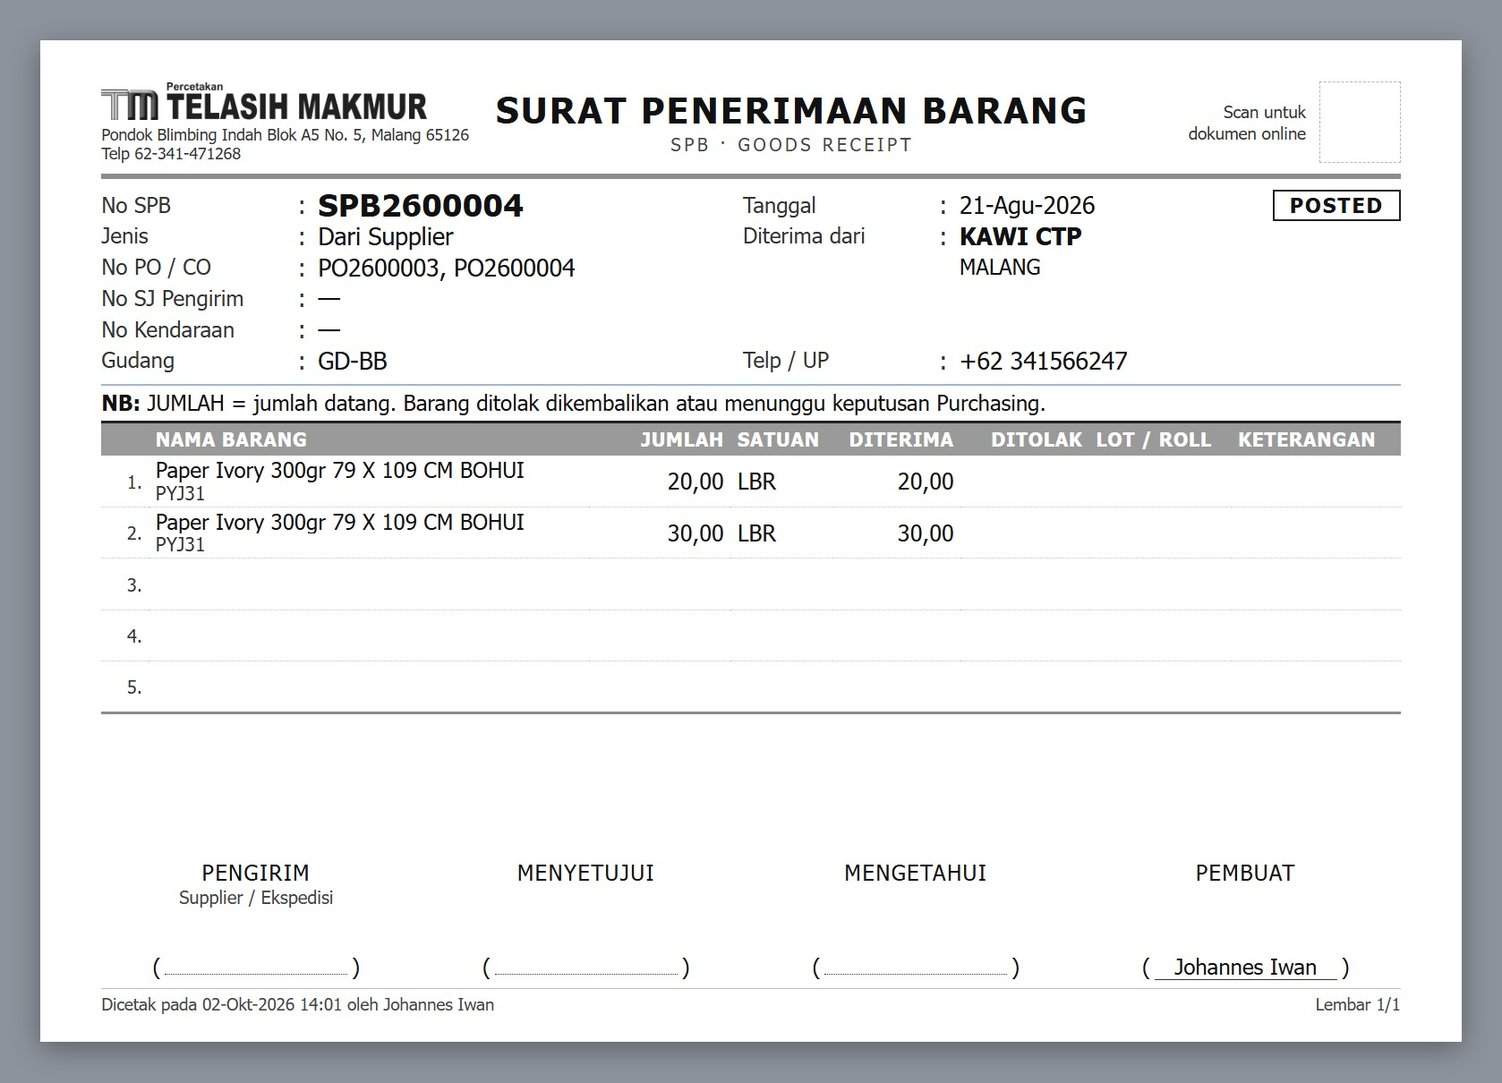
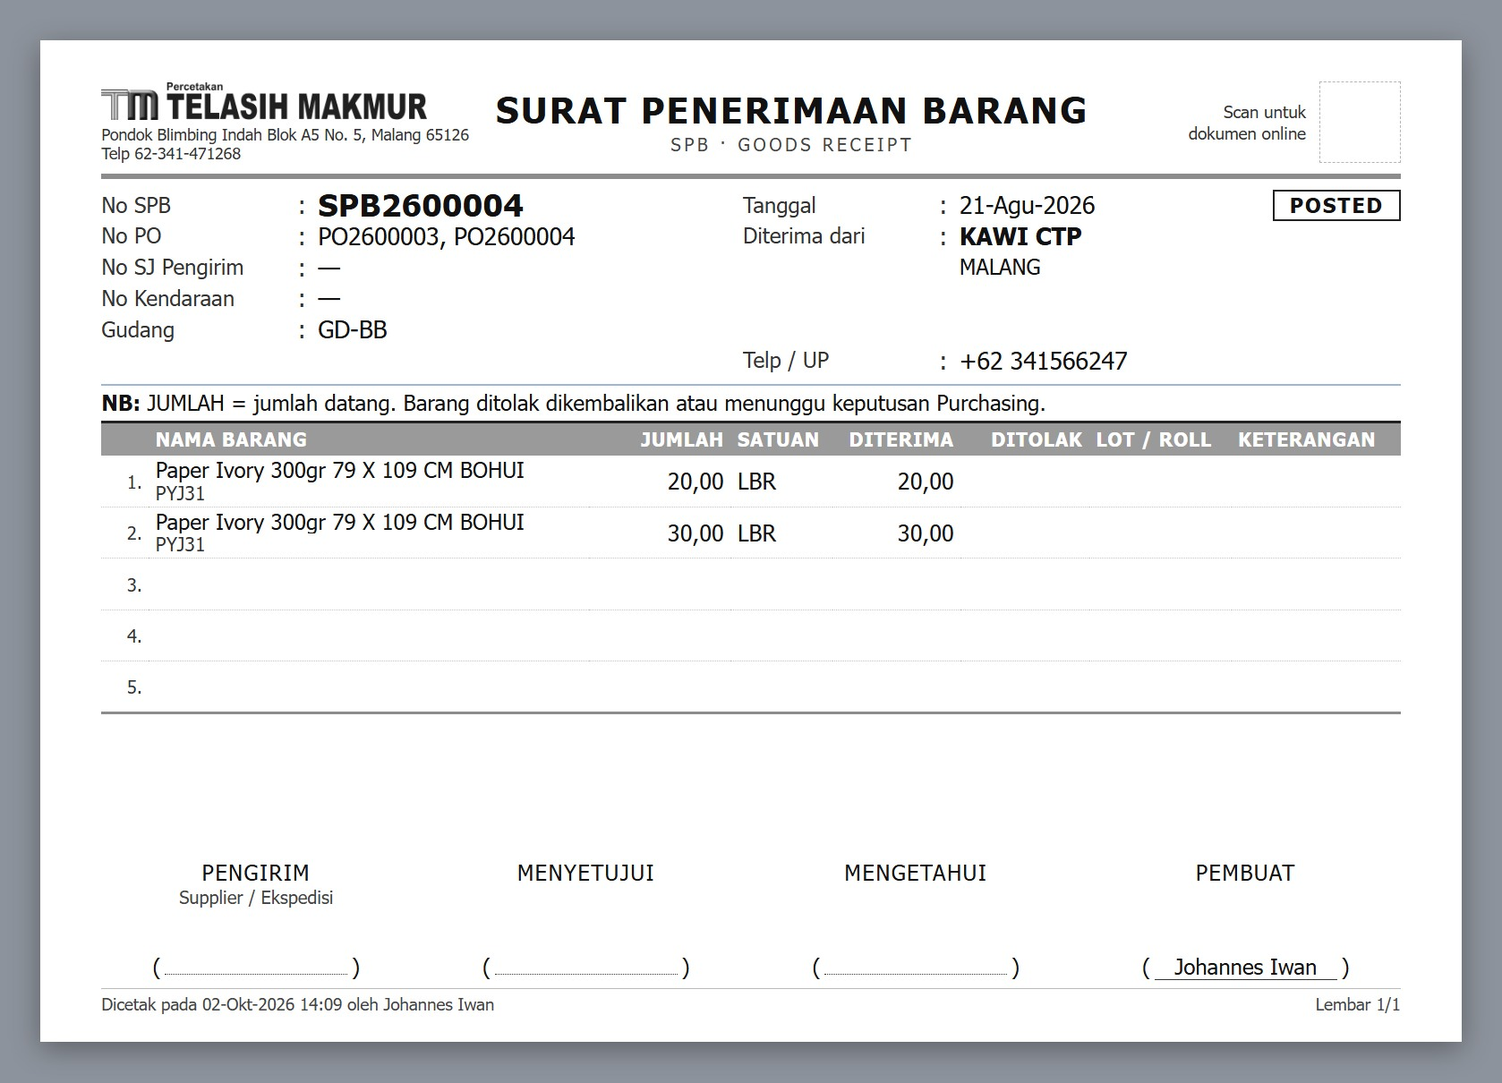
Goods receipts: three titles and three number series (SPB supplier, PBC customer material, PBS subcon); Kind field off the SPB print
SPB numbers stay consecutive for accounting to check supplier invoices against them.

Changed region(s): [[0.2169, 0.214, 0.4029, 0.3364], [0.062, 0.214, 0.1549, 0.3364]]

diff --git a/docs/mockups/print_doc/documents.js b/docs/mockups/print_doc/documents.js
@@ -296,8 +296,9 @@ PrintDoc.register(class GoodsReceipt extends PrintDoc {
     static title = 'SURAT PENERIMAAN BARANG';   // nama dokumen = SPB, Surat Penerimaan Barang (user 2026-10-02)
     static subtitle = 'SPB &middot; Goods Receipt';
     static numberLabel = 'No SPB';
+    // Tanpa field "Jenis" (user 2026-10-02): SPB hanya untuk penerimaan dari supplier, nomornya urut untuk pemeriksaan
+    // tagihan supplier oleh accounting. Bahan dari customer dan barang dari subkon = judul dan seri nomor sendiri (di bawah).
     static refs = [
-        {key: 'receipt_type', label: 'Jenis'},
         {key: 'po_no', label: 'No PO'},
         {key: 'supplier_dn', label: 'No SJ Pengirim'},
         {key: 'vehicle', label: 'No Kendaraan'},
@@ -309,6 +310,39 @@ PrintDoc.register(class GoodsReceipt extends PrintDoc {
     static extra = [{key: 'accepted', label: 'DITERIMA', width: 19, type: 'money'}, {key: 'rejected', label: 'DITOLAK', width: 19, type: 'money'}, {key: 'lot_no', label: 'LOT / ROLL', width: 21},
         {key: 'remark', label: 'KETERANGAN', width: 25}];
     static receivers = [['Pengirim', 'Supplier / Ekspedisi']];
+});
+
+// Bahan baku milik customer untuk satu Customer Order: judul dan seri nomor sendiri (PBC), bukan SPB.
+PrintDoc.register(class CustomerMaterialReceipt extends PrintDoc.registry.GoodsReceipt {
+    static approved = null;
+    static title = 'PENERIMAAN BAHAN BAKU CUSTOMER';
+    static subtitle = 'PBC &middot; Customer Material Receipt';
+    static numberLabel = 'No Penerimaan';
+    static refs = [
+        {key: 'co_no', label: 'No CO'},
+        {key: 'supplier_dn', label: 'No SJ Pengirim'},
+        {key: 'vehicle', label: 'No Kendaraan'},
+        {key: 'warehouse', label: 'Gudang'},
+    ];
+    static nb = '<b>NB:</b>&nbsp;Bahan milik customer, hanya untuk Customer Order di atas. Bukan stok perusahaan.';
+    static receivers = [['Pengirim', 'Customer / Ekspedisi']];
+});
+
+// Barang kembali dari subkon: judul dan seri nomor sendiri (PBS), bukan SPB.
+PrintDoc.register(class SubconGoodsReceipt extends PrintDoc.registry.GoodsReceipt {
+    static approved = null;
+    static title = 'PENERIMAAN BARANG DARI SUBKON';
+    static subtitle = 'PBS &middot; Goods Receipt from Subcon';
+    static numberLabel = 'No Penerimaan';
+    static refs = [
+        {key: 'po_no', label: 'No PO'},
+        {key: 'our_dn', label: 'No SJ Subkon'},
+        {key: 'supplier_dn', label: 'No SJ Pengirim'},
+        {key: 'vehicle', label: 'No Kendaraan'},
+        {key: 'warehouse', label: 'Gudang'},
+    ];
+    static nb = '<b>NB:</b>&nbsp;JUMLAH = jumlah yang kembali dari subkon. Kekurangan diselesaikan dengan subkon.';
+    static receivers = [['Pengirim', 'Subkon / Ekspedisi']];
 });
 
 // Layar v2: material-booking. Kebutuhan bahan satu Customer Order.

diff --git a/docs/mockups/print_doc/samples.js b/docs/mockups/print_doc/samples.js
@@ -197,10 +197,23 @@ Object.assign(SAMPLES, {
         more: [],
     },
     GoodsReceipt: {
-        data: {...PRINTED, number: 'SPB2600031', date: '2026-10-08', status: 'POSTED', receipt_type: 'Dari Supplier', po_no: 'PO26000001976', supplier_dn: 'SJ-0925/MJU', vehicle: 'L 9123 UX', warehouse: 'Gudang Bahan Baku',
+        data: {...PRINTED, number: 'SPB2600031', date: '2026-10-08', status: 'POSTED', po_no: 'PO26000001976', supplier_dn: 'SJ-0925/MJU', vehicle: 'L 9123 UX', warehouse: 'Gudang Bahan Baku',
             createdBy: 'Yuna', party: {name: 'PT MAKMUR JAYA USAHA', lines: []},
             notes: [['Catatan', '1 rim sobek di sisi luar, ditolak dan dibawa kembali oleh pengirim.']],
             rows: [{name: 'DC 310 IKA DA GR 79 x 109 CM', qty: 23, unit: 'RIM', accepted: 22, rejected: 1, lot_no: 'R8-2610', remark: '1 rim sobek'}]},
+        more: [],
+    },
+    CustomerMaterialReceipt: {
+        data: {...PRINTED, number: 'PBC2600003', date: '2026-10-06', status: 'POSTED', co_no: 'CO2600029', supplier_dn: 'SJ-RUDI-014', vehicle: 'N 8841 AB', warehouse: 'Gudang Bahan Baku',
+            contact: 'PAK RUDI · +62 812-3567-289', createdBy: 'Yuna', party: {name: 'PAK RUDI LAWANG', lines: ['Jl. Argopuro no. 24', 'Lawang']},
+            rows: [{name: 'Duplex 310 gr 65 x 100 cm (bahan customer)', sub: 'Folding Box Kosmetik Duplex', qty: 70, unit: 'LBR', accepted: 70, lot_no: 'CUST-1006'}]},
+        more: [],
+    },
+    SubconGoodsReceipt: {
+        data: {...PRINTED, number: 'PBS2600002', date: '2026-10-07', status: 'POSTED', po_no: 'PO2600008', our_dn: 'DO/26/00041', supplier_dn: 'SJ-CG-0331', vehicle: 'N 9027 CD', warehouse: 'Gudang Setengah Jadi',
+            createdBy: 'Yuna', party: {name: 'CENTRAL GRAFIK', lines: ['Malang']},
+            notes: [['Catatan', '10 lembar kurang, disusulkan subkon paling lambat 09-Okt-2026.']],
+            rows: [{name: 'Laminasi Doff - printed body sheets', sub: 'CO2600029', qty: 490, unit: 'LBR', accepted: 490, remark: 'Kurang 10 lbr'}]},
         more: [],
     },
     MaterialBooking: {

diff --git a/docs/mockups/print_doc/printdoc.css b/docs/mockups/print_doc/printdoc.css
@@ -108,4 +108,4 @@ table.items{width:100%;border-collapse:collapse;border-top:.5mm solid #222;borde
 .legend p i{position:absolute;left:0;top:.4mm;width:4.2mm;height:4.2mm;border-radius:50%;background:#e11d2e;color:#fff;font:700 6.8pt Tahoma,sans-serif;
     display:flex;align-items:center;justify-content:center}
 /* Judul panjang: huruf lebih kecil supaya muat di samping kop (user 2026-10-02) */
-.doc-SupplierInvoiceReceipt .kop h1{font-size:12pt;letter-spacing:.04em}
+.doc-SupplierInvoiceReceipt .kop h1,.doc-CustomerMaterialReceipt .kop h1,.doc-SubconGoodsReceipt .kop h1{font-size:12pt;letter-spacing:.04em}

diff --git a/app/Support/V2/Print/GoodsReceiptPrint.php b/app/Support/V2/Print/GoodsReceiptPrint.php
@@ -6,11 +6,23 @@ use App\Models\Pur\PvReceipt;
 use Devlib\PrintDoc\Document;
 use Illuminate\Support\Facades\DB;
 
-// Surat Penerimaan Barang / SPB (format A, user 2026-10-02; judul "Surat Penerimaan Barang" atas permintaan user): dokumen gudang, TANPA harga, untuk ketiga jenis penerimaan (dari supplier, kembali
-// dari subkon, bahan dari customer). Qty = jumlah datang; Diterima / Ditolak = hasil QC. Sumber: tm2pur.pv_receipt + pv_line.
+// Surat Penerimaan Barang / SPB (format A, user 2026-10-02): dokumen gudang, TANPA harga. Qty = jumlah datang; Diterima /
+// Ditolak = hasil QC. Sumber: tm2pur.pv_receipt + pv_line.
+// Tiga jenis penerimaan = tiga judul dan tiga seri nomor (user 2026-10-02): dari supplier = "Surat Penerimaan Barang" (SPB),
+// bahan dari customer = "Penerimaan Bahan Baku Customer" (PBC), kembali dari subkon = "Penerimaan Barang dari Subkon" (PBS).
+// Karena judulnya sudah berbeda, field "Jenis" tidak dicetak. SPB dipakai accounting untuk memeriksa tagihan supplier,
+// jadi nomornya harus urut tanpa diselingi dua jenis lainnya.
 final class GoodsReceiptPrint extends Document
 {
-    private const KINDS = ['PO' => 'From Supplier', 'SUBCON' => 'Return from Subcon', 'CUSTOMER' => 'Material from Customer'];
+    // jenis => [judul, sub-judul, label nomor, label rujukan, penyerah, NB]
+    private const KINDS = [
+        'PO' => ['Goods Receipt', 'SPB · Goods Receipt', 'SPB No.', 'PO No.', 'Supplier / Forwarder',
+            'QTY = quantity arrived. Rejected goods are returned or wait for a Purchasing decision.'],
+        'CUSTOMER' => ['Customer Material Receipt', 'PBC · Customer Material Receipt', 'Receiving No.', 'CO No.', 'Customer / Forwarder',
+            'Material owned by the customer, for the Customer Order above only. Not company stock.'],
+        'SUBCON' => ['Goods Receipt from Subcon', 'PBS · Goods Receipt from Subcon', 'Receiving No.', 'PO No.', 'Subcontractor / Forwarder',
+            'QTY = quantity returned by the subcontractor. A shortage is settled with the subcontractor.'],
+    ];
 
     public string $type = 'goods-receipt';
 
@@ -21,8 +33,7 @@ final class GoodsReceiptPrint extends Document
     public string $numberLabel = 'SPB No.';
 
     public array $refs = [
-        ['key' => 'receipt_type', 'label' => 'Kind'],
-        ['key' => 'ref_no', 'label' => 'PO / CO No.'],
+        ['key' => 'ref_no', 'label' => 'PO No.'],
         ['key' => 'sender_dn', 'label' => 'Sender Delivery Note No.'],
         ['key' => 'vehicle', 'label' => 'Vehicle No.'],
         ['key' => 'warehouse', 'label' => 'Warehouse'],
@@ -43,6 +54,17 @@ final class GoodsReceiptPrint extends Document
 
     public array $receivers = [['Sender', 'Supplier / Forwarder']];
 
+    // Label nomor dokumen menurut jenis penerimaan (dipakai juga cetakan QC Inspection).
+    public static function numberLabelFor(?string $receiptType): string
+    {
+        return (self::KINDS[$receiptType] ?? self::KINDS['PO'])[2];
+    }
+
+    public static function referenceLabelFor(?string $receiptType): string
+    {
+        return (self::KINDS[$receiptType] ?? self::KINDS['PO'])[3];
+    }
+
     public static function load(int $id, array $opt = []): static
     {
         $pv = PvReceipt::with(['lines' => fn ($q) => $q->orderBy('line_no')])->findOrFail($id);
@@ -52,9 +74,10 @@ final class GoodsReceiptPrint extends Document
         $ref = $customer ? DB::connection('tm2sdi')->table('co_order')->where('id_order', $pv->i_co_id)->value('co_no') : $pv->c_po_doc_list;
         $warehouse = $pv->i_warehouse_code ? implode(' · ', array_filter([$pv->i_warehouse_code, $mst->table('wh_warehouse')->where('warehouse_code', $pv->i_warehouse_code)->value('warehouse_name')])) : null;
 
-        return new self([
+        $doc = new self([
             'number' => $pv->doc_no ?: 'Draft #'.$pv->pv_id, 'date' => $pv->i_doc_date?->toDateString(), 'status' => $pv->status, 'printedBy' => $opt['printedBy'] ?? null,
-            'receipt_type' => self::t(self::KINDS[$pv->i_receipt_type] ?? $pv->i_receipt_type), 'ref_no' => $ref, 'sender_dn' => $pv->i_supplier_do_no,
+            'ref_no' => $ref, 'sender_dn' => $pv->i_supplier_do_no,
+            'our_dn' => $pv->i_do_id ? DB::connection('tm2sdi')->table('do_delivery')->where('id_delivery', $pv->i_do_id)->value('do_no') : null,
             'vehicle' => $pv->i_vehicle_no, 'warehouse' => $warehouse, 'email' => $party->email ?? null,
             'contact' => implode(' · ', array_filter([$party->contact_name ?? null, $party->phone ?? null])),
             'party' => ['name' => $party->customer_name ?? $party->supplier_name ?? '', 'lines' => PrintDocs::address($party->default_address ?? null)],
@@ -63,5 +86,15 @@ final class GoodsReceiptPrint extends Document
                 'accepted' => $l->c_qty_accepted !== null ? (float) $l->c_qty_accepted : null, 'rejected' => (float) $l->c_qty_rejected > 0 ? (float) $l->c_qty_rejected : null,
                 'lot_no' => $l->i_lot_no, 'remark' => $l->qc_note ?: $l->i_short_note])->all(),
         ]);
+        $kind = array_key_exists($pv->i_receipt_type, self::KINDS) ? $pv->i_receipt_type : 'PO';
+        [$doc->title, $doc->subtitle, $doc->numberLabel, $refLabel, $sender, $doc->nb] = self::KINDS[$kind];
+        $doc->titleCompact = $kind !== 'PO';
+        $doc->refs[0]['label'] = $refLabel;
+        $doc->receivers = [['Sender', $sender]];
+        if ($kind === 'SUBCON') {
+            array_splice($doc->refs, 1, 0, [['key' => 'our_dn', 'label' => 'Our Delivery Note No.']]);
+        }
+
+        return $doc;
     }
 }

diff --git a/tests/Feature/GoodsReceiptNumberSeriesTest.php b/tests/Feature/GoodsReceiptNumberSeriesTest.php
@@ -1,0 +1,37 @@
+<?php
+
+namespace Tests\Feature;
+
+use App\Models\Pur\PvReceipt;
+use App\Support\V2\Print\GoodsReceiptPrint;
+use Tests\TestCase;
+
+// Seri nomor penerimaan per jenis (user 2026-10-02): SPB hanya untuk penerimaan dari supplier supaya nomornya urut saat
+// accounting memeriksa tagihan supplier; bahan baku customer = PBC, barang dari subkon = PBS. Hanya membaca database.
+class GoodsReceiptNumberSeriesTest extends TestCase
+{
+    public function test_each_receipt_type_has_its_own_number_series(): void
+    {
+        $yy = now()->format('y');
+        $this->assertMatchesRegularExpression("/^SPB{$yy}\\d{5}$/", PvReceipt::nextDocNo());
+        $this->assertMatchesRegularExpression("/^SPB{$yy}\\d{5}$/", PvReceipt::nextDocNo('PO'));
+        $this->assertMatchesRegularExpression("/^PBC{$yy}\\d{5}$/", PvReceipt::nextDocNo('CUSTOMER'));
+        $this->assertMatchesRegularExpression("/^PBS{$yy}\\d{5}$/", PvReceipt::nextDocNo('SUBCON'));
+    }
+
+    public function test_the_supplier_series_is_not_advanced_by_the_other_types(): void
+    {
+        $last = PvReceipt::where('doc_no', 'like', 'SPB'.now()->format('y').'%')->orderByDesc('doc_no')->value('doc_no');
+        $expected = 'SPB'.now()->format('y').str_pad((string) (($last ? (int) substr($last, 5) : 0) + 1), 5, '0', STR_PAD_LEFT);
+        $this->assertSame($expected, PvReceipt::nextDocNo('PO'));
+        $this->assertNotSame(substr($expected, 0, 3), substr(PvReceipt::nextDocNo('CUSTOMER'), 0, 3));
+    }
+
+    public function test_the_print_names_the_number_by_receipt_type(): void
+    {
+        $this->assertSame('SPB No.', GoodsReceiptPrint::numberLabelFor('PO'));
+        $this->assertSame('Receiving No.', GoodsReceiptPrint::numberLabelFor('CUSTOMER'));
+        $this->assertSame('Receiving No.', GoodsReceiptPrint::numberLabelFor('SUBCON'));
+        $this->assertSame('CO No.', GoodsReceiptPrint::referenceLabelFor('CUSTOMER'));
+    }
+}

diff --git a/app/Services/Pur/SpecialReceiptService.php b/app/Services/Pur/SpecialReceiptService.php
@@ -41,7 +41,7 @@ final class SpecialReceiptService
             ->where('i.order_id', $coId)->orderBy('i.line_seq')->get(['i.id_item', 'i.description', 'q.material_source', 'q.cust_material_spec']);
 
         return DB::connection('tm2pur')->transaction(function () use ($co, $items, $warehouse, $login) {
-            $pv = PvReceipt::create(['doc_no' => PvReceipt::nextDocNo(), 'i_receipt_type' => 'CUSTOMER', 'i_doc_date' => now()->toDateString(),
+            $pv = PvReceipt::create(['doc_no' => PvReceipt::nextDocNo('CUSTOMER'), 'i_receipt_type' => 'CUSTOMER', 'i_doc_date' => now()->toDateString(),
                 'i_customer_id' => $co->customer_id, 'i_co_id' => $co->id_order, 'i_warehouse_code' => $warehouse ?: null, 'c_po_doc_list' => $co->co_no,
                 'status' => 'DRAFT', 'created_by' => $login, 'updated_by' => $login]);
             // Baris awal per item CO; spesifikasi bahan dari Inquiry bila Inquiry menyebut "bahan dari customer".
@@ -63,7 +63,7 @@ final class SpecialReceiptService
         }
 
         return DB::connection('tm2pur')->transaction(function () use ($supplierId, $lines, $doId, $login) {
-            $pv = PvReceipt::create(['doc_no' => PvReceipt::nextDocNo(), 'i_receipt_type' => 'SUBCON', 'i_doc_date' => now()->toDateString(),
+            $pv = PvReceipt::create(['doc_no' => PvReceipt::nextDocNo('SUBCON'), 'i_receipt_type' => 'SUBCON', 'i_doc_date' => now()->toDateString(),
                 'i_supplier_id' => $supplierId, 'i_do_id' => $doId, 'c_po_doc_list' => $lines->pluck('order.doc_no')->unique()->implode(', '),
                 'c_po_count' => $lines->pluck('po_id')->unique()->count(), 'status' => 'DRAFT', 'created_by' => $login, 'updated_by' => $login]);
             foreach ($lines->values() as $i => $l) {

diff --git a/app/Support/V2/Print/QcInspectionPrint.php b/app/Support/V2/Print/QcInspectionPrint.php
@@ -26,7 +26,7 @@ final class QcInspectionPrint extends Document
     public string $numberLabel = 'SPB No.';
 
     public array $refs = [
-        ['key' => 'ref_no', 'label' => 'PO / CO No.'],
+        ['key' => 'ref_no', 'label' => 'PO No.'],
         ['key' => 'sender_dn', 'label' => 'Sender Delivery Note No.'],
         ['key' => 'warehouse', 'label' => 'Warehouse'],
         ['key' => 'checked_at', 'label' => 'Inspected At'],
@@ -65,7 +65,7 @@ final class QcInspectionPrint extends Document
         $accepted = (float) $lines->sum('c_qty_accepted');
         $decision = ! $done ? 'Inspection not finished' : ($rejected <= 0 ? 'All accepted' : ($accepted <= 0 ? 'All rejected' : 'Partly accepted'));
 
-        return new self([
+        $doc = new self([
             'number' => $pv->doc_no ?: 'Draft #'.$pv->pv_id, 'date' => $pv->i_doc_date?->toDateString(), 'status' => $done ? 'QC DONE' : 'QC PENDING',
             'printedBy' => $opt['printedBy'] ?? null, 'ref_no' => $ref, 'sender_dn' => $pv->i_supplier_do_no, 'warehouse' => $warehouse,
             'checked_at' => ($at = $lines->max('qc_at')) ? Locale::dt($at) : null, 'decision' => self::t($decision),
@@ -79,5 +79,10 @@ final class QcInspectionPrint extends Document
                 'accepted' => $l->c_qty_accepted !== null ? (float) $l->c_qty_accepted : null, 'rejected' => (float) $l->c_qty_rejected,
                 'qc_note' => $l->qc_note])->all(),
         ]);
+        // Nomor dan rujukan mengikuti jenis penerimaan (SPB / bahan baku customer / barang dari subkon).
+        $doc->numberLabel = GoodsReceiptPrint::numberLabelFor($pv->i_receipt_type);
+        $doc->refs[0]['label'] = GoodsReceiptPrint::referenceLabelFor($pv->i_receipt_type);
+
+        return $doc;
     }
 }

diff --git a/app/Support/V2/Print/Labels.php b/app/Support/V2/Print/Labels.php
@@ -136,9 +136,17 @@ final class Labels
         'Rejected' => 'Ditolak',
         'Sender' => 'Pengirim',
         'Supplier / Forwarder' => 'Supplier / Ekspedisi',
-        'From Supplier' => 'Dari Supplier',
-        'Return from Subcon' => 'Kembali dari Subkon',
-        'Material from Customer' => 'Bahan dari Customer',
+        // Penerimaan Bahan Baku Customer / Penerimaan Barang dari Subkon (judul dan seri nomor sendiri, user 2026-10-02)
+        'Customer Material Receipt' => 'Penerimaan Bahan Baku Customer',
+        'PBC · Customer Material Receipt' => 'PBC · Customer Material Receipt',
+        'Goods Receipt from Subcon' => 'Penerimaan Barang dari Subkon',
+        'PBS · Goods Receipt from Subcon' => 'PBS · Goods Receipt from Subcon',
+        'Receiving No.' => 'No Penerimaan',
+        'Our Delivery Note No.' => 'No SJ Subkon',
+        'Customer / Forwarder' => 'Customer / Ekspedisi',
+        'Subcontractor / Forwarder' => 'Subkon / Ekspedisi',
+        'Material owned by the customer, for the Customer Order above only. Not company stock.' => 'Bahan milik customer, hanya untuk Customer Order di atas. Bukan stok perusahaan.',
+        'QTY = quantity returned by the subcontractor. A shortage is settled with the subcontractor.' => 'JUMLAH = jumlah yang kembali dari subkon. Kekurangan diselesaikan dengan subkon.',
         // Material Booking
         'Material Reservation · Internal' => 'Pemesanan Bahan · Internal',
         'Booking No.' => 'No Booking',

diff --git a/app/Models/Pur/PvReceipt.php b/app/Models/Pur/PvReceipt.php
@@ -35,9 +35,13 @@ class PvReceipt extends Model
         return $this->hasMany(PvLine::class, 'pv_id', 'pv_id')->orderBy('line_no');
     }
 
-    public static function nextDocNo(): string
+    // Seri nomor per jenis penerimaan (user 2026-10-02): SPB hanya untuk penerimaan dari supplier, supaya urutan nomor SPB
+    // bisa diperiksa accounting terhadap tagihan supplier; bahan baku dari customer dan barang dari subkon punya seri sendiri.
+    public const NUMBER_PREFIX = ['PO' => 'SPB', 'CUSTOMER' => 'PBC', 'SUBCON' => 'PBS'];
+
+    public static function nextDocNo(string $type = 'PO'): string
     {
-        $prefix = 'SPB'.now()->format('y');
+        $prefix = (self::NUMBER_PREFIX[$type] ?? self::NUMBER_PREFIX['PO']).now()->format('y');
 
         $last = static::where('doc_no', 'like', "{$prefix}%")
             ->lockForUpdate()

diff --git a/docs/globaluserrules.md b/docs/globaluserrules.md
@@ -461,6 +461,7 @@
 | 2026-10-02 | C.24 (koreksi user atas mockup tahap 3): yang dicetak **bukan "Tagihan Supplier" melainkan Tanda Terima Tagihan Supplier** (satu baris = satu invoice supplier yang diserahkan; bukan bukti bayar); dokumen barang masuk bernama **SPB, Surat Penerimaan Barang**; ditambah **Tanda Terima Uang Muka** (bukti untuk customer). Semua masih mockup, belum A. |
 | 2026-10-02 | C.24 (user): **barang masuk cukup satu dokumen = SPB** (yang diterima = yang masuk gudang; mockup "Bukti Barang Masuk" dibuang); yang diperlukan **QC Inspection** barang masuk, dicetak dari SPB yang sama. **Tanda Terima Tagihan Supplier** = entry baru v2 (Finance → Transaction Flows; `tm2acc.fin_invoice_receipt` + `_line`, nomor `TTyy#####`, bukan bukti bayar, tanpa jurnal); **Tanda Terima Uang Muka** tidak punya tabel sendiri: mencetak pembayaran uang muka yang sudah tercatat (nomor = nomor voucher). Tanda terima dicetak tanpa kolom Menyetujui. Ketiganya terpasang (ddt + tm2), **belum A**. |
 | 2026-10-02 | C.24 (user: "ya ganti jadi SPB"): judul cetakan SPB = **SURAT PENERIMAAN BARANG** (dulu "Penerimaan Barang"), sub-judul tetap "SPB · Goods Receipt"; hanya judul yang berubah, format tetap A. |
+| 2026-10-02 | **C.24 / Procurement (user): tiga jenis penerimaan = tiga judul dan tiga seri nomor.** Dari supplier = **Surat Penerimaan Barang**, nomor `SPByy#####` (field "Jenis" tidak dicetak); bahan dari customer = **Penerimaan Bahan Baku Customer**, nomor `PBCyy#####`; kembali dari subkon = **Penerimaan Barang dari Subkon**, nomor `PBSyy#####`. Alasan: SPB dipakai accounting untuk memeriksa tagihan supplier, jadi nomor SPB harus urut tanpa diselingi jenis lain. |
 | 2026-10-02 | **A.16 diganti:** semua jenis CO boleh di-Post to Production asal Confirmed + approved; costing published tidak disyaratkan; product tanpa Inquiry mendapat WO sederhana (tanpa routing / bahan). |
 | 2026-10-02 | C.29: kerapatan grid cukup per grid lewat tombol Density (tersimpan di browser); rencana setelan per user + pintu Configuration → Grid dibatalkan, bagian "Grid (segera)" di drawer Configuration menu lama dihapus. |
 | 2026-10-02 | **E.1: Help wajib untuk setiap layar input dan laporan** (untuk apa, cara pakai, penjelasan tiap isian) — 159 topik ditulis dari kode, layar Help Center + Setup → Help Topics / Help Lines (ddt + tm2, OK user 2026-10-02), pintu Help Center di halaman F1. **E.2: keputusan Asisten AI** (offline, modular, AI tidak menghitung, jawaban sesuai level, drawer chat pribadi); rancangan menunggu persetujuan. Sales today dirinci Draft / Confirmed / Total; riwayat chat 30 / 14 / 7 hari menurut level. |

diff --git a/docs/LOG_JOB_DONE.md b/docs/LOG_JOB_DONE.md
@@ -20,6 +20,19 @@ saran + "semua didokumentasi jelas urusan keuangan dan akuntansi", D ok, E "untu
   Qty Minim di `ddtsdi` maupun `tm2sdi`, jadi tidak ada data yang berubah.
 - **Belum:** modulnya sendiri (Tahap 0 mockup menunggu OK user, lalu Tahap 1–3; backlog07).
 
+## 2026-10-02 -- Penerimaan: tiga judul dan tiga seri nomor (SPB / PBC / PBS)
+
+User: field "Jenis" di SPB tidak perlu; penerimaan dari customer dan dari subkon diberi judul dan penomoran sendiri, karena SPB
+akan dipakai accounting untuk memeriksa tagihan supplier dan nomornya harus urut.
+- `PvReceipt::nextDocNo($type)` + `NUMBER_PREFIX`: PO = `SPB`, CUSTOMER = `PBC`, SUBCON = `PBS` (`SpecialReceiptService`
+  memakai serinya sendiri). Tidak ada dokumen lama yang perlu dinomori ulang (ddt dan tm2: semua penerimaan berjenis PO).
+- Cetakan `goods-receipt`: judul per jenis -- Surat Penerimaan Barang / Penerimaan Bahan Baku Customer / Penerimaan Barang
+  dari Subkon; tanpa field Jenis; rujukan No PO atau No CO; subkon menampilkan No SJ Subkon. QC Inspection ikut label nomornya.
+- Mockup: `GoodsReceipt` tanpa Jenis + `CustomerMaterialReceipt`, `SubconGoodsReceipt`; hasil aplikasi di
+  `docs/mockups/print_doc/app/` (dokumen PBC / PBS dirender di dalam transaksi lalu rollback, tidak ada baris tertinggal).
+- Test `GoodsReceiptNumberSeriesTest` (hanya membaca). **Catatan untuk user:** nomor lahir saat Draft dibuat, jadi Draft
+  yang dihapus masih meninggalkan nomor loncat -- belum diubah, menunggu keputusan user.
+
 ## 2026-10-02 -- Tanda Terima Tagihan Supplier (entry baru v2) + cetakan Tanda Terima Uang Muka dan QC Inspection
 
 Perintah user setelah melihat mockup cetakan tahap 3: "bukan tagihan supplier tapi tanda terima tagihan supplier", "tanda
